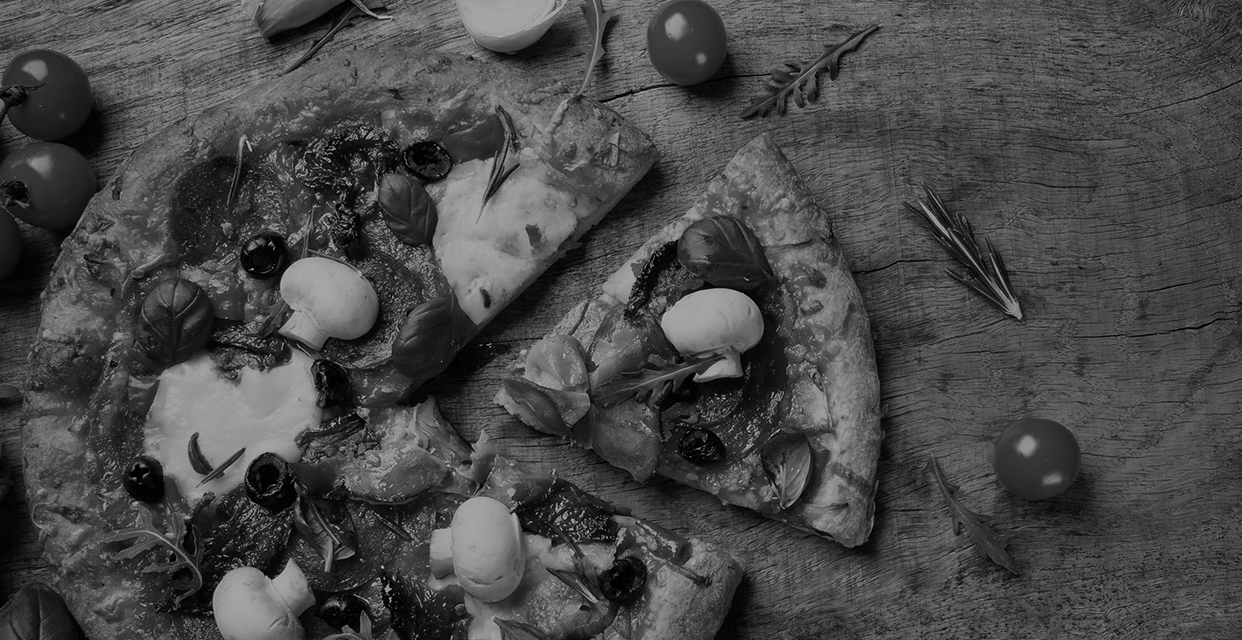
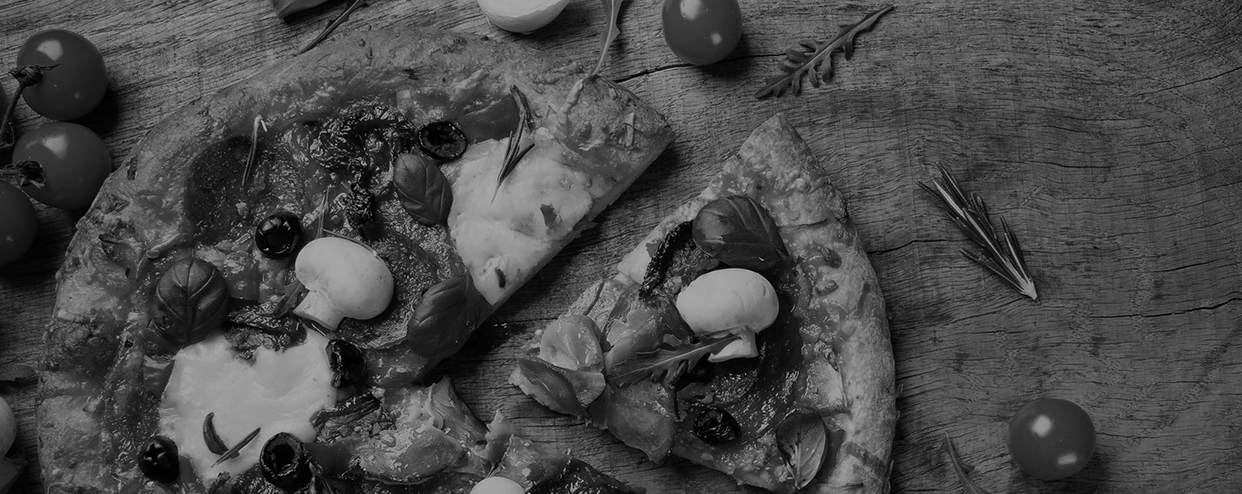
nuovo

diff --git a/_menu/dali.md b/_menu/dali.md
@@ -21,7 +21,6 @@ hide_title: false
       <i class="fab fa-facebook fa-stack-1x fa-inverse"></i>
   </span>
 </a>
-</center>
 
 <a href="https://www.justeat.it/restaurants-pizzeriadali/menu?utm_source=google&utm_medium=organic&utm_campaign=orderaction" title="Just Eat" target="_blank" rel="noopener">
   <span class="fa-stack fa-lg">

diff --git a/pages/menu.md b/pages/menu.md
@@ -3,7 +3,7 @@ layout: page
 title : Menù
 permalink: /menu/
 subtitle: "Menù d'asporto suddivisi per locale"
-feature-img: "https://res.cloudinary.com/dbwupuwda/image/upload/v1659219506/pizzascura.png"
+feature-img: "assets/img/header/pizzascura.jpg"
 tags: [Page]
 ---
 {% include menu.html %}
